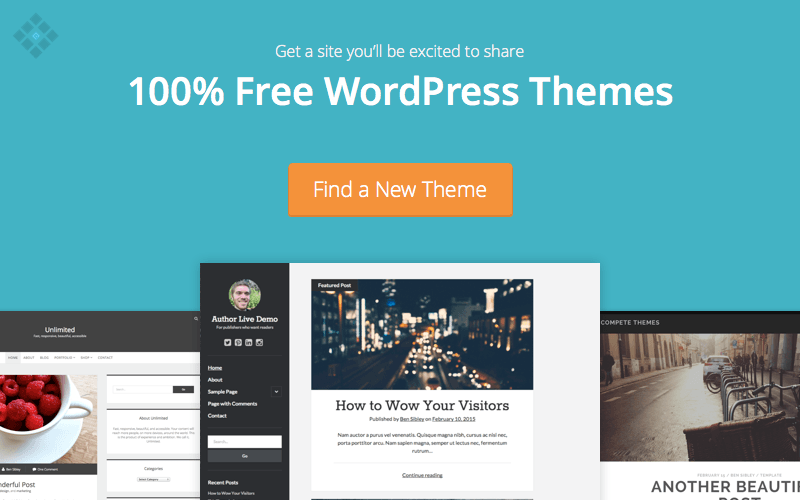
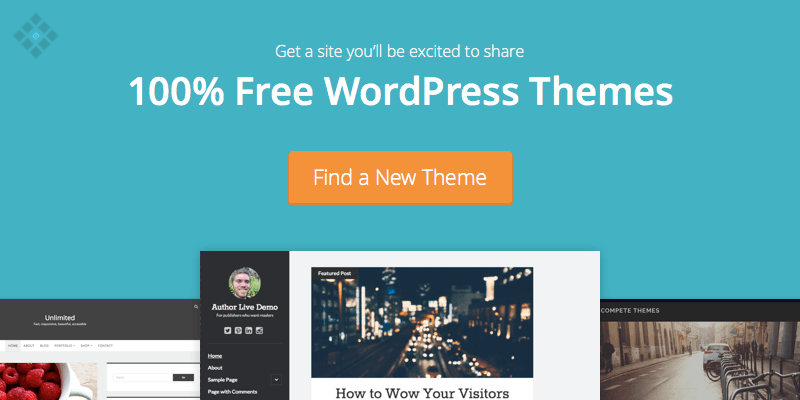
added theme ad image

diff --git a/wp-image-borders.php b/wp-image-borders.php
@@ -91,12 +91,15 @@ function wp_image_borders_options_content() {
         <form action="options.php" method="post">
             <?php settings_fields( 'wp_image_borders_options' ); ?>
             <?php do_settings_sections( 'wp-image-borders' ); ?>
-            <input class="button-primary" name="Submit" type="submit" value="<?php esc_attr_e( 'Save Changes', 'bs-wib' ); ?>" />
+            <input style="margin: 24px 0;" class="button-primary" name="Submit" type="submit" value="<?php esc_attr_e( 'Save Changes', 'bs-wib' ); ?>" />
         </form>
         <p><?php
 			$link = 'http://wordpress.org/support/view/plugin-reviews/wp-image-borders';
 			printf( __('If you liked this plugin, please take <a href="%s">1 minute to leave a review</a>.', 'bs-wib'), $link ); ?>
         </p>
+		<a target="_blank" href="https://www.competethemes.com/themes/?utm_source=wp-image-borders&utm_medium=plugin&utm_content=banner-image&utm_campaign=wp-image-borders">
+			<img style="margin-top: 48px;" width="800" height="400" src="<?php echo BS_WIB_PRO_URL . 'images/theme-ad.png'; ?>"
+		</a>
     </div><?php 
 }
 ?>

diff --git a/inc/options.php b/inc/options.php
@@ -151,7 +151,7 @@ function bs_wib_classes_display() {
 	$options = get_option( 'wp_image_borders_options' );
 	$html = "<input type='text' id='bs_wib_classes' name='wp_image_borders_options[bs_wib_classes]' value='{$options['bs_wib_classes']}' />";
 	$html .= '<span style="margin-left: 12px;"><em>.class-1, .class-2, .another-class</em></span>';
-	$html .= '<p style="margin-top: 12px;">' . __("Classes should be on the img element.", "bs-wib") . '</p>';
+	$html .= '<p style="margin-top: 12px;">' . __("Classes should be added to the img element.", "bs-wib") . '</p>';
 	echo $html;
 }
 
